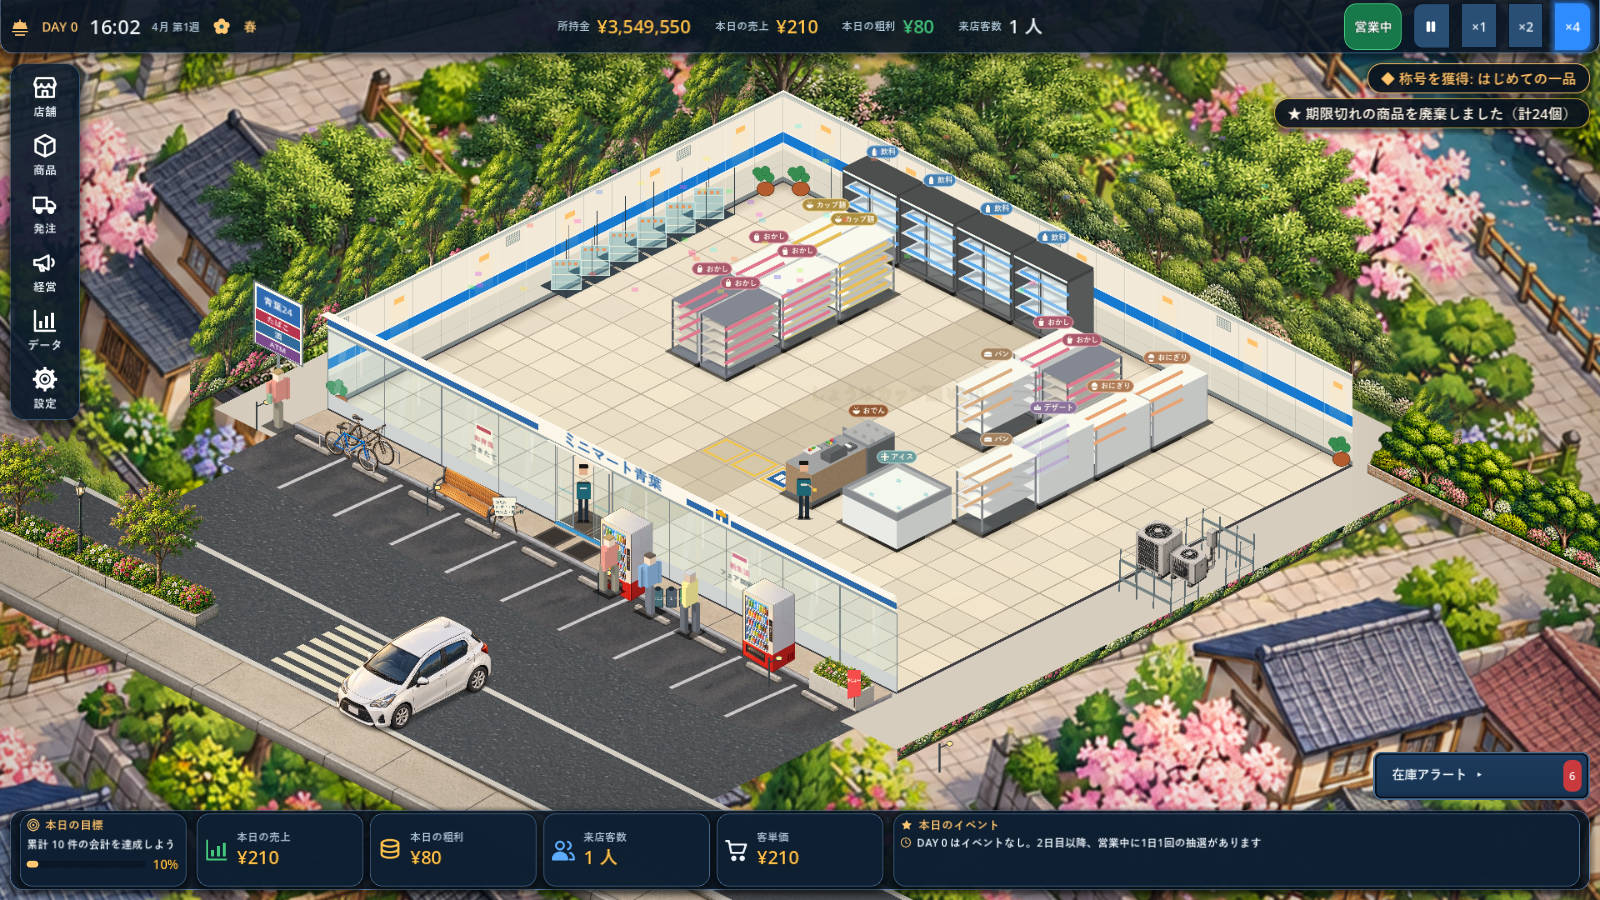
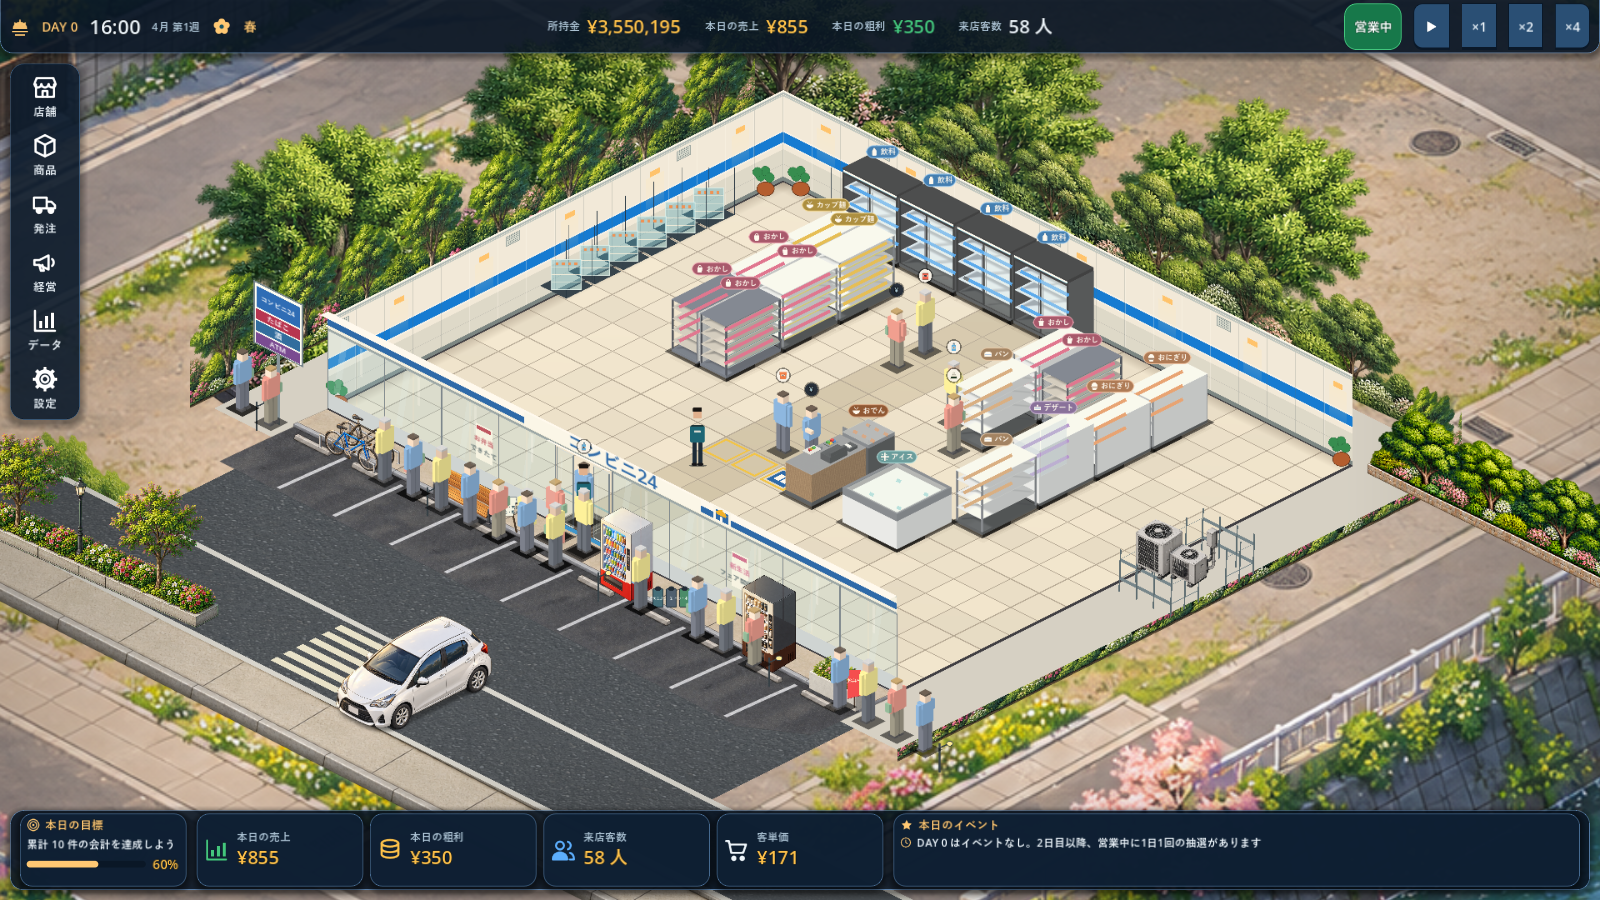
Match neighborhood backdrop to store camera

diff --git a/docs/qa/exterior-area-a/REMAINING_DIFFERENCES.md b/docs/qa/exterior-area-a/REMAINING_DIFFERENCES.md
@@ -1,6 +1,6 @@
 # Mockup comparison: remaining exterior work
 
-Reference: user-supplied `image-1792819026698.webp` (16:28) and the current Godot 4.7.2 20x16 capture at 16:00, `fascia-name-20x16-1600x900-2026-10-31.png`. The six-region contact sheet at `comparison-2026-10-31/04_comparison/mockup_region_comparison.png` predates the V3 backdrop, coffee machine and fascia-title refinements; treat its current-game crops as historical. The latest storefront-size captures are listed in `RESULTS.md`. Crops are selected by visual subject, not pixel registration: the mockup and game use different camera framing, store contents, UI and object density.
+Reference: user-supplied `image-1792819026698.webp` (16:28) and the current Godot 4.7.2 20x16 capture at 16:00, `camera-angle-match-2026-10-31/urban-context-dimetric-v4-20x16-1600x900-2026-10-31.png`. The six-region contact sheet at `comparison-2026-10-31/04_comparison/mockup_region_comparison.png` now shows the v4 camera-matched background and latest storefront, coffee-machine and fascia-title refinements. The latest storefront-size captures are listed in `RESULTS.md`. Crops are selected by visual subject, not pixel registration: the mockup and game use different camera framing, store contents, UI and object density.
 
 | Region | Target vs current | Remaining 2D work and world placement | Priority |
 |---|---|---|---|
@@ -9,7 +9,7 @@ Reference: user-supplied `image-1792819026698.webp` (16:28) and the current Godo
 | Parking | Both show asphalt, stalls and wheel stops. All four frontage panels now have generated asphalt and stone variation; the east/west apron transform was corrected after the original 10m source exposed an inward-facing panel. The target still has more natural curb wear and storefront-side detail. | Review panel edges at close scale and refine curb wear while retaining stall and wheel-stop placement. | P2 |
 | Road | Target shows a broader street, directional arrows and a moving/parked vehicle. Game now has opposing lane arrows, lane marks, edge line, crossing, and one static road car; it still has fewer traffic cues. | Review texture scale and distant fade under extreme camera movement; add road detail outside the store interaction footprint. | P2 |
 | Sidewalk | Target's bright pavers and curb sit among dense planting. All frontage profiles now add warmer stone variation. The road and apron underlay now have a world-scaled asphalt image fading into a flat base at its finite ends. | Review the frontage edges and improve the road separately, preserving world anchors and camera-follow behavior. | P2 |
-| Planting and neighborhood | Target surrounds the building with layered trees, flowering beds, sidewalks, and low residential context. Runtime now uses an unrotated dimetric neighborhood source whose roads, canal, bridge and paving follow the store's two projected ground axes. Captures at 12x10, 16x12, 20x16 and both 20x16 pan limits show continuous coverage and aligned dominant lines. The neighborhood remains more detailed and painterly than the flat store art; some foliage and roof details vary naturally. | Keep the backdrop anchored to the store center and review the store-to-neighborhood transition with the user. | P1 |
+| Planting and neighborhood | Target surrounds the building with layered trees, flowering beds, sidewalks, and low residential context. Runtime now uses the 2:1 dimetric `urban_context_dimetric_v4` scene; dominant roads, sidewalks, rooflines and canal edges follow the store's two projected ground axes. Captures at 12x10, 16x12, 20x16 and both 20x16 pan limits show continuous coverage with no screen-space rotation or stretching. The generated neighborhood remains more detailed and painterly than the flat store art, and the broad tan courtyard is especially visible around the 12x10 store. | Refine the neighborhood-to-store style transition and fill the broad tan courtyard while preserving the matched dimetric axes and camera-follow behavior. | P1 |
 | Pole sign | Target has a tall stacked sign with a blue store panel and separate service panels. The top panel now shares the コンビニ24 title with the fascia; tobacco, alcohol and ATM remain on separate colored panels. The target-like sign material and surface detail remain different. | Refine the store mark and sign surface detail while keeping the service rows readable at full-scene scale. | P2 |
 | Outdoor props | Target includes bike racks/bicycles, benches, banners, planters, bins, two vending machines and an open board. Large stores now get two angled vending sprites along the frontage: the door-side beverage machine and a distinct far-end coffee machine; smaller stores retain one. The near-side planter spacing is 3m while the grouped landscape edge remains free of duplicates. The coffee machine has a detailed cup display; the renderer style differs slightly from the flatter fixtures. | Add grouped promotional props and review near-side density against the target at full scene scale. | P2 |
 | Side wall and HVAC | Target's gray side wall carries vents, conduit, wall lights, stacked HVAC units and rear fencing. Game now has panel seams, vents, lamps, conduit, two HVAC units and a low gated service railing around the units. The wider rear-boundary fence and finer wall material detail remain missing. | Refine the HVAC railing material and add rear-boundary fencing only if it can be placed behind the opaque wall and grouped planting without breaking the root occlusion order. | P3 |

diff --git a/docs/qa/exterior-area-a/RESULTS.md b/docs/qa/exterior-area-a/RESULTS.md
@@ -662,3 +662,10 @@ The requested image-generation model cannot be selected in the currently connect
 The visual storefront title now reads コンビニ24 on both the near-side fascia and the top panel of the pole sign. The fascia title is 40px, backed by a 6.2m white sign panel; the pole sign uses a smaller 12px title to fit its existing panel. This changes presentation art only; store simulation state and service labels are unchanged. The façade title and panel remain world-plane geometry and scale with the camera.
 
 Actual Godot 4.7.2 captures at 1600x900 cover 12x10, 16x12 and 20x16: `fascia-name-12x10-1600x900-2026-10-31.png`, `fascia-name-16x12-1600x900-2026-10-31.png` and `fascia-name-20x16-1600x900-2026-10-31.png`. The title and panel fit all three footprints; the shorter 12x10 façade shows no edge clipping. Focused `test_store_decor` passed 26 tests / 751 assertions, including the 6.2m panel width, pole-sign title consistency, prop manifest, and vending-unit placement at all three store sizes. No full suite was run.
+
+
+## Neighborhood camera-angle match v4 (2026-10-31)
+
+Replaced the mixed-perspective neighborhood panorama with `urban_context_dimetric_v4`, a 1774x887 generated scene composed on a 2:1 dimetric ground plane. Store-facing roads, sidewalks, rooflines, walls, and canal edges use the same two projected ground directions; runtime keeps the image unrotated, uniformly scaled, centered on the projected store, and camera-following. No image stretching or screen-space rotation was added.
+
+Actual Godot 4.7.2 captures at 1600x900 cover 12x10 (`camera-angle-match-2026-10-31/urban-context-dimetric-v4-12x10-1600x900-2026-10-31.png`), 16x12 (`camera-angle-match-2026-10-31/urban-context-dimetric-v4-16x12-1600x900-2026-10-31.png`), 20x16 (`camera-angle-match-2026-10-31/urban-context-dimetric-v4-20x16-1600x900-2026-10-31.png`), and both 20x16 camera pan directions (`camera-angle-match-2026-10-31/urban-context-dimetric-v4-20x16-pan-left-1600x900-2026-10-31.png`, `camera-angle-match-2026-10-31/urban-context-dimetric-v4-20x16-pan-right-1600x900-2026-10-31.png`). The background remains continuous at all three footprints and pans, and its dominant ground-plane edges now follow the store axes. The neighborhood still has a more detailed, painterly finish than the flat store; its broad tan courtyard is also visible around the store, especially at 12x10. Focused `test_backdrop_layer` passed 25 tests / 396 assertions, including 2:1 source aspect, unrotated uniform transform, viewport coverage, store-center anchor, and camera-pan translation. No full suite was run.
